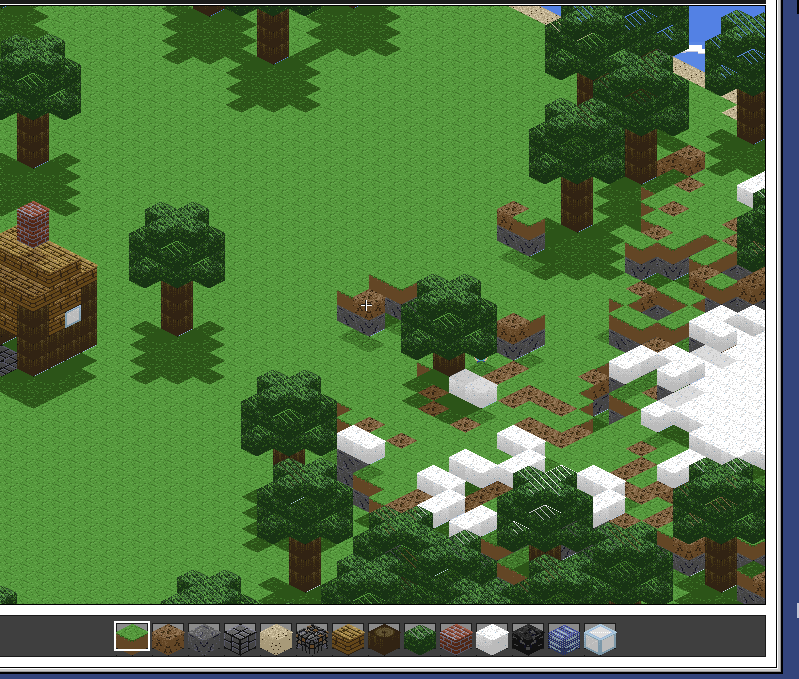
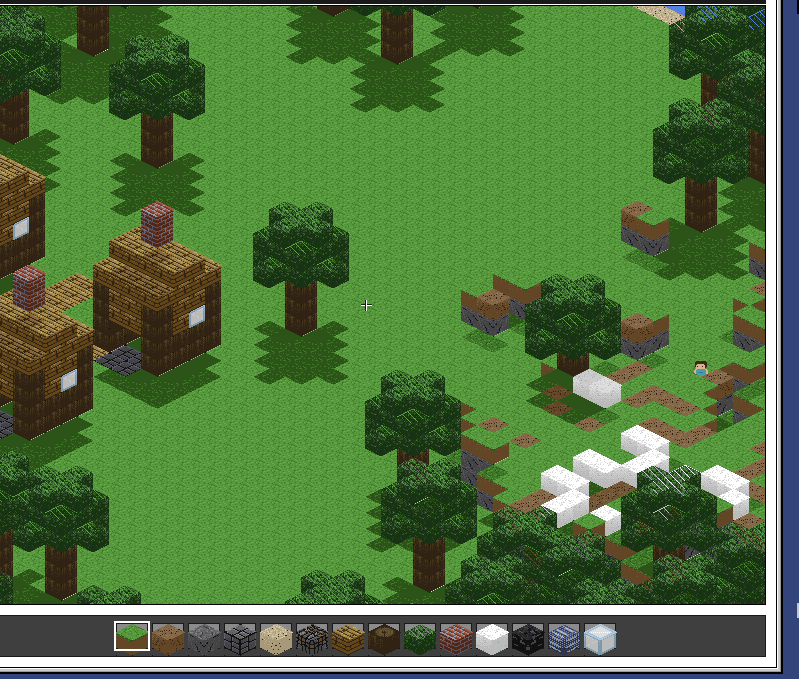
fix: dirt shades like every other block, and the snow cap is a cap
Dirt used all four steps of its own hue inside a single block, so a shaded
face looked exactly like an unshaded one -- the texture's own spread was as
wide as the shading step, which is why soil was the one material that never
picked up the sun. The body is one step now, with sparse accents and dark grit,
so the face shade is what changes the tone. Grass, stone and cobble already
worked this way.

Snow fell on any column six or higher, which put a lone white cube on every
spike of a ragged slope. It now needs the four neighbours at five or more, so
the summit is one cap instead of litter.

diff --git a/src/game/art.c b/src/game/art.c
@@ -128,23 +128,27 @@ static const unsigned char kTexGrassSide[kArtTextureBytes] = {
    pebbles.  It is deliberately darker than sand and lighter than bedrock, so
    the three terrains separate at a glance. */
 
+/* Dirt used to use all four steps of its own hue inside a single block, so a
+ * shaded face looked exactly like an unshaded one: the texture's own spread was
+ * as wide as the shading step. The body is one step now, with sparse accents
+ * and dark grit, and the face shade is what changes the tone. */
 static const unsigned char kTexDirt[kArtTextureBytes] = {
-    13, 13, 32, 32, 14, 14, 32, 15, 13, 13, 15, 15, 14, 14, 12, 14,
-    13, 14, 32, 14, 15, 14, 14, 15, 12, 13, 14, 14, 15, 14, 12, 14,
-    12, 15, 12, 15, 13, 14, 12, 15, 15, 13, 14, 15, 14, 13, 14, 13,
-    33, 14, 15, 15, 14, 14, 12, 13, 13, 14, 15, 13, 15, 15, 13, 15,
-    14, 13, 15, 15, 13, 13, 15, 14, 14, 13, 15, 12, 13, 15, 15, 14,
-    14, 13, 14, 13, 14, 32, 32, 32, 14, 14, 14, 13, 12, 15, 15, 14,
-    14, 14, 13, 13, 15, 14, 13, 13, 12, 12, 15, 13, 12, 15, 15, 13,
-    14, 14, 15, 13, 14, 13, 32, 33, 13, 14, 14, 12, 13, 15, 33, 13,
-    33, 15, 14, 13, 14, 15, 14, 33, 33, 13, 12, 13, 15, 14, 33, 32,
-    14, 12, 12, 12, 32, 33, 13, 15, 32, 33, 13, 13, 15, 14, 15, 13,
-    13, 14, 13, 14, 14, 33, 13, 13, 15, 15, 13, 15, 15, 12, 14, 14,
-    14, 14, 12, 15, 32, 33, 13, 15, 14, 14, 13, 14, 13, 32, 13, 14,
-    14, 13, 15, 15, 13, 15, 13, 14, 13, 13, 15, 14, 14, 32, 14, 14,
-    14, 13, 14, 14, 14, 15, 15, 12, 15, 14, 14, 12, 32, 32, 32, 15,
-    14, 15, 32, 33, 14, 14, 13, 32, 14, 14, 12, 14, 32, 13, 14, 15,
-    13, 15, 15, 15, 14, 13, 12, 13, 14, 13, 14, 15, 12, 14, 14, 13,
+    14, 14, 14, 13, 14, 14, 14, 15, 15, 14, 32, 14, 13, 13, 14, 14,
+    14, 14, 14, 13, 14, 14, 14, 14, 14, 14, 14, 14, 14, 14, 14, 13,
+    14, 14, 14, 14, 14, 15, 15, 14, 14, 15, 15, 13, 13, 14, 14, 14,
+    14, 14, 14, 14, 14, 14, 32, 15, 14, 14, 14, 32, 14, 14, 14, 14,
+    15, 14, 13, 14, 13, 14, 14, 14, 14, 14, 14, 14, 14, 14, 14, 14,
+    15, 13, 14, 15, 14, 14, 32, 15, 14, 15, 14, 14, 32, 14, 14, 14,
+    14, 14, 14, 14, 14, 14, 14, 14, 14, 32, 14, 14, 14, 14, 14, 14,
+    15, 14, 14, 14, 14, 32, 14, 13, 14, 14, 32, 14, 14, 14, 14, 13,
+    14, 14, 15, 14, 32, 14, 15, 14, 14, 13, 14, 14, 14, 14, 14, 14,
+    14, 14, 13, 14, 14, 14, 14, 14, 14, 14, 14, 14, 14, 14, 14, 14,
+    14, 14, 14, 14, 32, 14, 13, 32, 14, 14, 14, 15, 14, 15, 14, 14,
+    14, 32, 14, 32, 14, 14, 13, 14, 14, 14, 15, 14, 13, 14, 14, 14,
+    14, 13, 14, 14, 15, 14, 14, 15, 13, 14, 15, 14, 14, 14, 14, 14,
+    14, 14, 14, 14, 15, 13, 14, 32, 14, 14, 14, 14, 14, 14, 14, 14,
+    14, 14, 14, 14, 14, 14, 15, 14, 14, 14, 13, 14, 14, 14, 14, 32,
+    14, 13, 14, 14, 14, 14, 14, 32, 14, 14, 14, 15, 14, 14, 14, 14,
 };
 
 /* Stone: cool mid grey built from the stone and cool-grey ramps, with short

diff --git a/src/game/scene.c b/src/game/scene.c
@@ -194,7 +194,13 @@ static void FillLandColumn(short x, short y, short top)
         /* Stone carries the mountain, dirt the lowlands. */
         World_Set(x, y, z, (BlockID)(top >= 4 ? kBlockStone : kBlockDirt));
     }
-    if (top >= 6) {
+    if (top >= 6 && TerrainHeight((short)(x - 1), y) >= 5 &&
+        TerrainHeight((short)(x + 1), y) >= 5 &&
+        TerrainHeight(x, (short)(y - 1)) >= 5 &&
+        TerrainHeight(x, (short)(y + 1)) >= 5) {
+        /* Snow only where the summit is a summit: a single tall column in a
+         * ragged slope used to get a white cube of its own, which scattered
+         * across the hill like litter. */
         World_Set(x, y, (short)(top - 1), kBlockStone);
         World_Set(x, y, top, kBlockSnow);
     }

diff --git a/src/game/save.c b/src/game/save.c
@@ -27,7 +27,7 @@
  * older build holds a world that no longer matches the generator (one-block
  * trunks, huts without doorways), and resuming it made every fixed bug look
  * unfixed on the guest. */
-#define kSaveVersion 5
+#define kSaveVersion 6
 
 static const unsigned char kSaveName[] = "\pMacCraft World";
 
